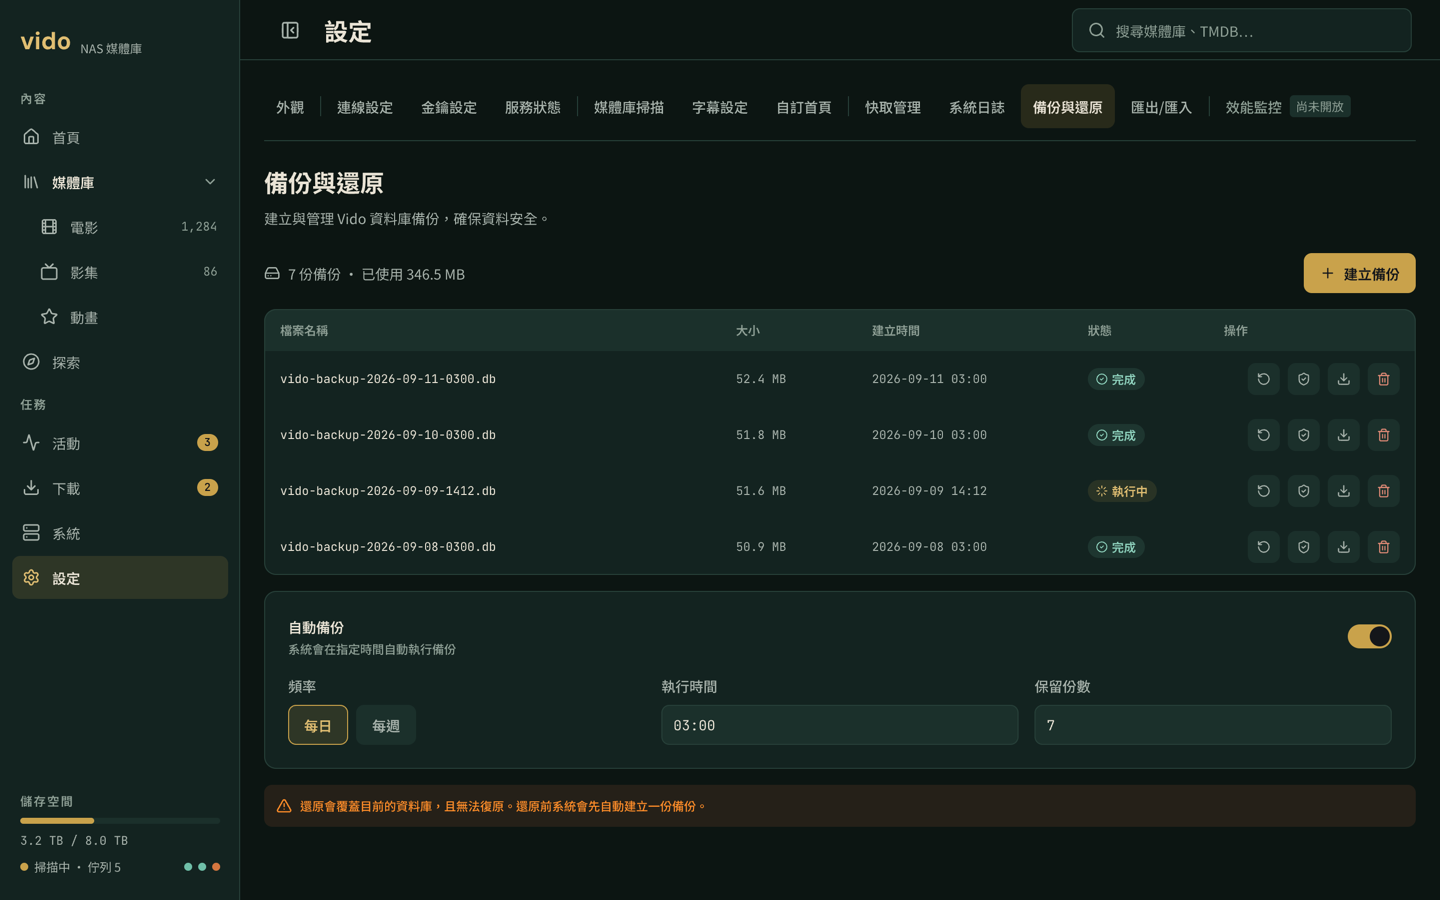
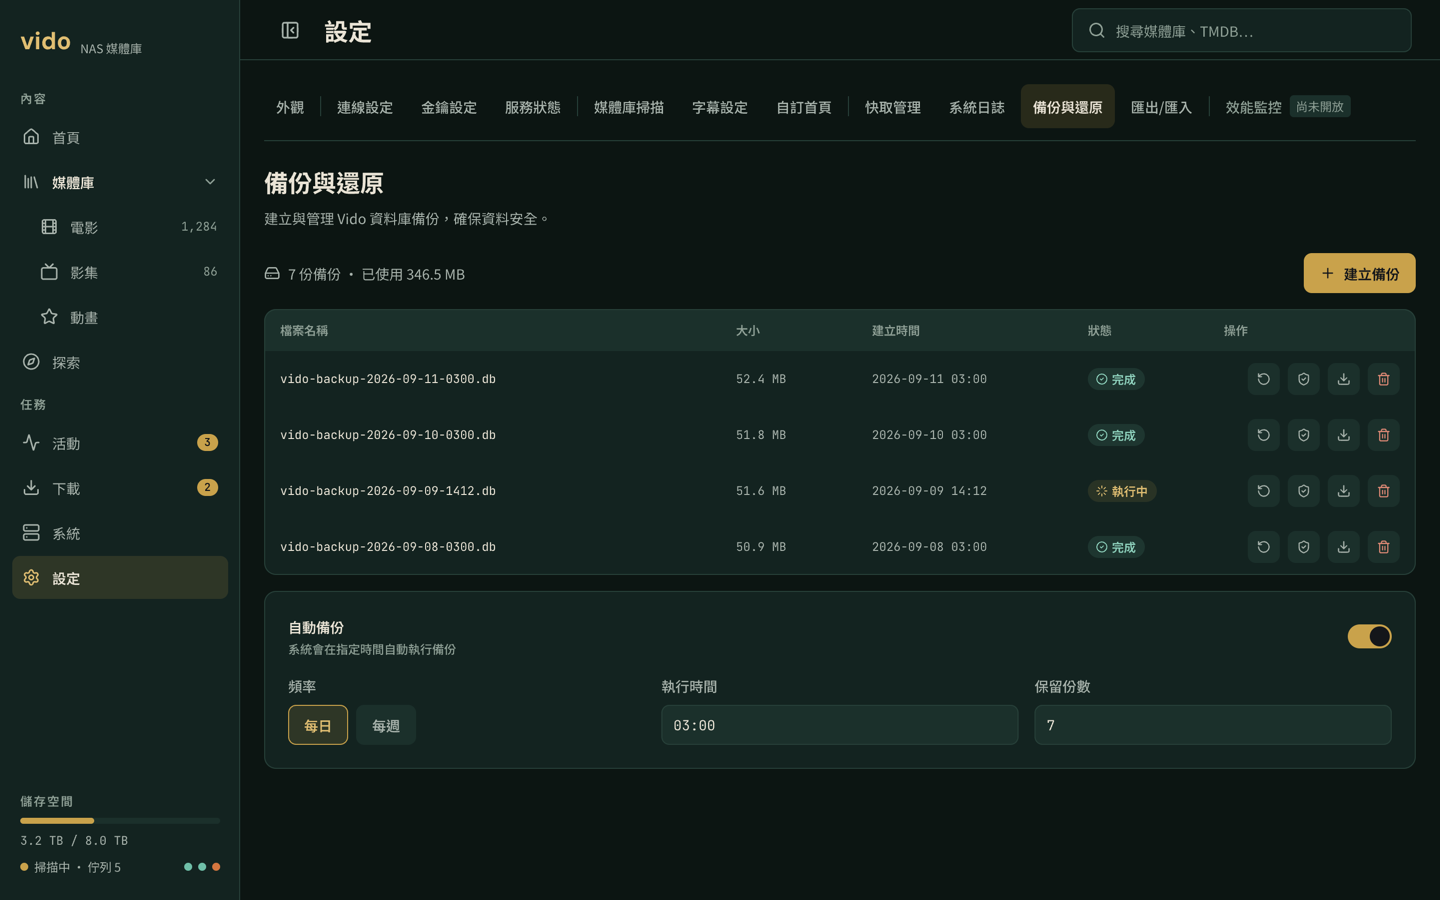
fix(design-ref): 8 個檔頭被我寫壞到 lint 擋下來，修回去；順手補上漏掉的設計稿快照
原本會怎樣：
  上一個 commit 把 27 個程式碼檔頭改成誠實的說明，但我把說明直接接在第一行後面，
  例如「Design ref: ux-design.pen Screen E1-D (KvZSc)——僅掃描排程那半對得上」。
  守門的 lint 規則要求那一行必須以 (節點編號) 結尾，接了中文就不算數，
  8 個檔案因此變成「沒有連回設計稿」，PR #411 的 Lint 直接紅燈。
  另外同一個 commit 改了設計稿卻沒重跑匯出腳本，所以：
  設計稿快照裡的雜湊對不上真正的檔案（token 守門會是下一個紅燈），
  而且備份頁那條被刪掉的赭色橫幅，在截圖 c5-d／c5-m 裡還亮著。

改成怎樣：
  · 8 個檔頭的第一行還原成規則認得的格式，我要講的話全部移到第二行以後，
    一個字都沒少。ui/Card.tsx 的陰影實測說明也保留在下面。
  · 重跑匯出腳本，設計稿快照的雜湊對上了，c5-d／c5-m 兩張截圖裡的赭色橫幅消失。
  · 187 張全部重匯，只有這兩張真的變了，其餘沒有 byte 噪音，所以只進這兩張。

怎麼確定：
  · pnpm run lint：0 errors（原本 8 errors）。
  · pnpm nx run web:typecheck：通過。
  · python3 scripts/check-design-tokens.py：「設計 token 一致」，五份來源對得上，
    82 個變數、187 張畫面、72 個母版。
  · prettier 檢查 8 個檔案全部通過。
  · 打開 c5-d.png 看過，備份頁底部那條常駐赭色橫幅確實不見了。

Claude-Session: https://claude.ai/code/session_01GnCNNVFFayfGTouGcPymRs

Changed region(s): [[0.1875, 0.8711, 1.0, 0.9333]]

diff --git a/apps/web/src/components/settings/ScannerSettings.tsx b/apps/web/src/components/settings/ScannerSettings.tsx
@@ -1,4 +1,6 @@
-// Design ref: ux-design.pen Screen E1-D (KvZSc) · E1-M (uABWl)——**僅掃描排程與「開始掃描」那半對得上**；同頁的「媒體資料夾」區塊已被 MediaLibraryManager 取代，見 drift-e1-scanner-multi-library。E1 的「掃描頻率」下拉前端未實作（後端 ScanScheduler 存在）
+// Design ref: ux-design.pen Screen E1-D (KvZSc) · E1-M (uABWl)
+// ⚠ 僅「掃描排程」與「開始掃描」那半對得上；同頁的「媒體資料夾」區塊已被 MediaLibraryManager 取代，
+//    見 drift-e1-scanner-multi-library。E1 的「掃描頻率」下拉前端未實作（後端 ScanScheduler 存在）
 /**
  * Scanner Settings component (Story 7.3)
  * Displays media folder paths, scan schedule, last scan info, and scan trigger button.

diff --git a/apps/web/src/components/settings/MediaLibraryManager.tsx b/apps/web/src/components/settings/MediaLibraryManager.tsx
@@ -1,4 +1,6 @@
-// Design ref: ux-design.pen Screen J4-D (sPzZT)；E1-D (KvZSc)／E1-M (uABWl) 畫的是舊的扁平資料夾列，**已被取代、不可依此實作**（drift-e1-scanner-multi-library）。重畫 E1 等於重裁多媒體庫 IA，不在該單範圍內
+// Design ref: ux-design.pen Screen J4-D (sPzZT)
+// ⚠ E1-D (KvZSc)／E1-M (uABWl) 畫的是舊的扁平資料夾列，已被取代、不可依此實作（drift-e1-scanner-multi-library）。
+// 重畫 E1 等於重裁多媒體庫 IA，不在該單範圍內
 /**
  * Media Library Manager component for Settings page (Story 7b-4)
  * Replaces the env var display section in ScannerSettings.

diff --git a/apps/web/src/components/setup/MediaLibrarySetupStep.tsx b/apps/web/src/components/setup/MediaLibrarySetupStep.tsx
@@ -1,4 +1,6 @@
-// Design ref: ux-design.pen Screen N3-D (TyjL0) · N3-M (YyaqL)——⚠ 這一步的資料模型（每條路徑各自選類型）與 E5-D／LibraryCard 的「具名媒體庫＋多路徑」不一致，見 drift-e1-scanner-multi-library
+// Design ref: ux-design.pen Screen N3-D (TyjL0) · N3-M (YyaqL)
+// ⚠ 這一步的資料模型（每條路徑各自選類型）與 E5-D／LibraryCard 的「具名媒體庫＋多路徑」不一致，
+//    見 drift-e1-scanner-multi-library
 import { useEffect } from 'react';
 import { Plus, X } from 'lucide-react';
 import type { StepProps } from './SetupWizard';

diff --git a/apps/web/src/components/settings/SettingsLayout.tsx b/apps/web/src/components/settings/SettingsLayout.tsx
@@ -1,4 +1,5 @@
-// Design ref: ux-design.pen Component/SettingsTabStrip（12 分頁橫向列）；任一設定分頁的殼層見 Screen C4-D (6UCtX) · C4-M (2H4OM)
+// Design ref: ux-design.pen Screen C4-D (6UCtX) · C4-M (2H4OM)
+// 分頁列本體是 Component/SettingsTabStrip（12 分頁橫向列），任一設定分頁共用這個殼層
 // ⚠ The .pen still shows the RETIRED vertical rail. feat-settings-tabs-ia reshapes
 // this surface in code; the design file is brought back into line in the same story.
 import { useEffect, useRef } from 'react';

diff --git a/apps/web/src/components/settings/LibraryCard.tsx b/apps/web/src/components/settings/LibraryCard.tsx
@@ -1,4 +1,5 @@
-// Design ref: ux-design.pen Screen J4-D (sPzZT) · J5-D (alrIw)；E1-D (KvZSc)／E1-M (uABWl) 畫的是舊的扁平資料夾列，**已被取代、不可依此實作**（drift-e1-scanner-multi-library）
+// Design ref: ux-design.pen Screen J4-D (sPzZT) · J5-D (alrIw)
+// ⚠ E1-D (KvZSc)／E1-M (uABWl) 畫的是舊的扁平資料夾列，已被取代、不可依此實作（drift-e1-scanner-multi-library）
 /**
  * Library Card component for displaying a media library in Settings (Story 7b-4)
  */

diff --git a/apps/web/src/components/ui/Card.tsx b/apps/web/src/components/ui/Card.tsx
@@ -1,4 +1,5 @@
-// Implements: <utility — DESIGN.md §Cards and Containers>
+// Implements: <utility — no .pen counterpart>
+// DESIGN.md §Cards and Containers
 // 2026-09-11：從 shadow-md 改成髮絲邊框。夜行下 shadow-md 疊在 --bg-primary 上只有
 // 1.056:1，而 --border-subtle 是 1.660:1（12 倍亮度差），且陰影是 4px 下偏移、卡片上緣
 // 沒有任何陰影像素。全 app 151 個卡片形狀容器本來就都用邊框，這支元件是唯一的例外。

diff --git a/apps/web/src/components/settings/SettingsPlaceholder.tsx b/apps/web/src/components/settings/SettingsPlaceholder.tsx
@@ -1,4 +1,5 @@
-// Design ref: ux-design.pen Screen C14-D (aJSKl) · C14-M (JUEUD)——分頁列上「效能監控」是 aria-disabled，這兩張畫的是路由真的被打開時的樣子
+// Design ref: ux-design.pen Screen C14-D (aJSKl) · C14-M (JUEUD)
+// 分頁列上「效能監控」是 aria-disabled，這兩張畫的是路由真的被打開時的樣子
 import type { LucideIcon } from 'lucide-react';
 
 interface SettingsPlaceholderProps {

diff --git a/apps/web/src/components/setup/StepProgress.tsx b/apps/web/src/components/setup/StepProgress.tsx
@@ -1,4 +1,5 @@
-// Design ref: ux-design.pen Screen N1-D (dzgq9)…N5-D (CWh3E) 的 step-progress 區塊
+// Design ref: ux-design.pen Screen N1-D (dzgq9) · N5-D (CWh3E)
+// 對應 N1–N5 五張稿上方的 step-progress 區塊
 interface StepProgressProps {
   steps: { id: string; title: string }[];
   currentStep: number;
